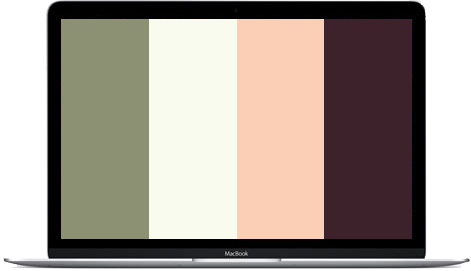
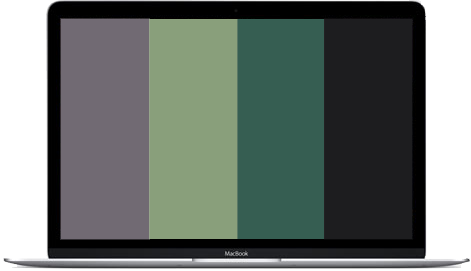
change color scheme

diff --git a/css/rhj.css b/css/rhj.css
@@ -19,26 +19,26 @@ h1 {
 
 .byline {
 	font-size: 2em;
-	color: #8C7D82;
+	color: rgb(137,159,123);
 	font-weight: 100;
 }
 
 /* LINKS */
 
 a {
-	color: #8C9174;
+	color: rgb(137,159,123);
 }
 
 a:hover {
-	color: #3E222B;
+	color: #999;
 }
 
 nav a {
-	color: #8C7D82;
+	color: rgb(137,159,123);
 }
 
 nav a:hover {
-	color: #CEC8CA;
+	color: #999;
 }
 
 /* ALIGNMENT & BORDERS */
@@ -57,7 +57,7 @@ nav a:hover {
 
 .header {
 	padding-top: 30vh; /* set in vh to scale with screen size */
-	background: #3E222B;
+	background: rgb(54,94,82);
 	color: #FFFFFF;
 	text-transform: uppercase;
 }
